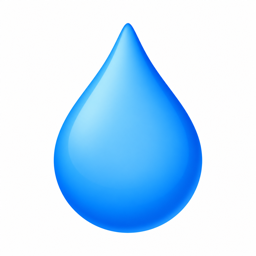
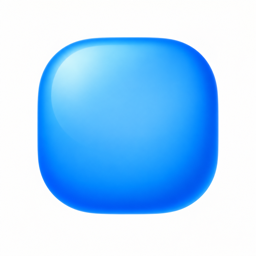
minor patches

diff --git a/website/src/app/page.tsx b/website/src/app/page.tsx
@@ -34,13 +34,13 @@ export default function Home() {
         Skip to content
       </a>
       <SiteHeader>
-        <Link className="brand" href="/" aria-label="Water, pls home">
+        <Link className="brand" href="/" aria-label="Water, pls home" target="_blank" rel="noopener noreferrer">
           <Image src="/icon.png" width={28} height={28} alt="" />
           <span>Water, pls<span className="brand-dot">.</span></span>
         </Link>
         <nav aria-label="Main navigation">
-          <a href="#features">Features</a>
-          <a href={github}>GitHub</a>
+          <a href="#features" target="_blank" rel="noopener noreferrer">Features</a>
+          <a href={github} target="_blank" rel="noopener noreferrer">GitHub</a>
         </nav>
         <DownloadButton />
       </SiteHeader>
@@ -58,7 +58,7 @@ export default function Home() {
             </p>
             <div className="actions">
               <DownloadButton />
-              <a className="button secondary" href={github}>
+              <a className="button secondary" href={github} target="_blank" rel="noopener noreferrer">
                 <svg
                   viewBox="0 0 24 24"
                   fill="none"
@@ -201,12 +201,12 @@ export default function Home() {
         </section>
       </main>
       <footer className="site-footer wrap">
-        <Link className="brand" href="/">
+        <Link className="brand" href="/" target="_blank" rel="noopener noreferrer">
           <Image src="/icon.png" width={22} height={22} alt="" />
           Water, pls.
         </Link>
         <span>A little care, built into your day.</span>
-        <a href={github}>
+        <a href={github} target="_blank" rel="noopener noreferrer">
           Made in the open
         </a>
       </footer>

diff --git a/website/src/app/globals.css b/website/src/app/globals.css
@@ -795,7 +795,6 @@ h1 { font-size: clamp(44px, 5.6vw, 70px); font-weight: 550; line-height: 1.06; l
 .notch-stem { width: 150px; height: 25px; border-radius: 0 0 9px 9px; background: #090b0d; z-index: 2; }
 .notch-panel { position: absolute; top: 0; left: 50%; margin: 0; transform: translateX(-50%); width: 358px; height: 176px; min-height: 0; padding: 0; border: 0; border-radius: 0 0 25px 25px; background: #090b0d; overflow: hidden; z-index: 3; animation: notch-expand 1.1s 1.2s cubic-bezier(.22,1,.36,1) both; }
 .notch-content { width: 358px; max-width: 100%; padding: 36px 19px 15px; animation: notch-reveal .5s 1.7s ease both; }
-.notch-panel:focus-within, .notch-panel:focus-within .notch-content { animation: none; }
 @keyframes notch-expand {
   from { width: 150px; height: 25px; border-radius: 0 0 9px 9px; box-shadow: 0 0 0 transparent; }
   to { width: 358px; height: 176px; border-radius: 0 0 25px 25px; box-shadow: 0 15px 35px #1b253633; }

diff --git a/website/src/app/site-header.module.css b/website/src/app/site-header.module.css
@@ -54,7 +54,8 @@
   align-items: center;
   gap: 8px;
   color: #727880;
-  font-size: 13px;
+  font-size: 14.3px;
+  font-weight: 500;
   letter-spacing: 0;
 }
 
@@ -106,7 +107,7 @@
     grid-column: 1 / -1;
     grid-row: 2;
     justify-content: center;
-    font-size: 12px;
+    font-size: 13.2px;
   }
 
   .header nav a {

diff --git a/Casks/water-pls.rb b/Casks/water-pls.rb
@@ -2,7 +2,7 @@ cask "water-pls" do
   version "0.1.1"
[1 lines of base64/hex data omitted]
 
-  url "https://github.com/dhruv-colosus/water-pls/releases/download/v#{version}/WaterPls-v#{version}-macOS-arm64.dmg"
+  url "https://github.com/dhruv-colosus/water-pls/releases/download/v#{version}/Water-pls-#{version}.dmg"
   name "Water, pls"
   desc "Native hydration tracker with MacBook notch reminders"
   homepage "https://github.com/dhruv-colosus/water-pls"

diff --git a/docs/RELEASING.md b/docs/RELEASING.md
@@ -8,14 +8,14 @@ From the repository root on a Mac with Xcode command-line tools:
 
 ```sh
 ./scripts/package-dmg.sh
-open build/WaterPls-v0.1.1-macOS-arm64.dmg
+open build/Water-pls-0.1.1.dmg
 ```
 
 Drag `WaterPls.app` onto the Applications shortcut, then open it from Applications. The script builds the native executable, embeds the icon and version, signs the app, creates and verifies a compressed DMG, and generates:
 
-- `build/WaterPls-v0.1.1-macOS-arm64.dmg`
-- `build/WaterPls-v0.1.1-macOS-arm64.dmg.sha256`
-- `website/public/downloads/WaterPls-v0.1.1-macOS-arm64.dmg`
+- `build/Water-pls-0.1.1.dmg`
+- `build/Water-pls-0.1.1.dmg.sha256`
+- `website/public/downloads/Water-pls-0.1.1.dmg`
 - `website/src/app/release.json`
 - `Casks/water-pls.rb`, with the actual SHA-256 checksum
 
@@ -55,8 +55,8 @@ gh auth login
 git tag v0.1.1
 git push origin v0.1.1
 gh release create v0.1.1 \
-  build/WaterPls-v0.1.1-macOS-arm64.dmg \
-  build/WaterPls-v0.1.1-macOS-arm64.dmg.sha256 \
+  build/Water-pls-0.1.1.dmg \
+  build/Water-pls-0.1.1.dmg.sha256 \
   --verify-tag \
   --title 'Water, pls 0.1.1' \
   --notes 'Native hydration reminders for Apple silicon, macOS 14+. Open the DMG and drag WaterPls.app into Applications. This build is ad-hoc signed and is not Apple-notarized; macOS may require approval in System Settings > Privacy & Security.'
@@ -68,7 +68,7 @@ Verify the published bytes match the cask:
 
 ```sh
 curl --fail --location \
-  https://github.com/dhruv-colosus/water-pls/releases/download/v0.1.1/WaterPls-v0.1.1-macOS-arm64.dmg \
+  https://github.com/dhruv-colosus/water-pls/releases/download/v0.1.1/Water-pls-0.1.1.dmg \
   --output /tmp/WaterPls-release.dmg
 shasum -a 256 /tmp/WaterPls-release.dmg
 ```
